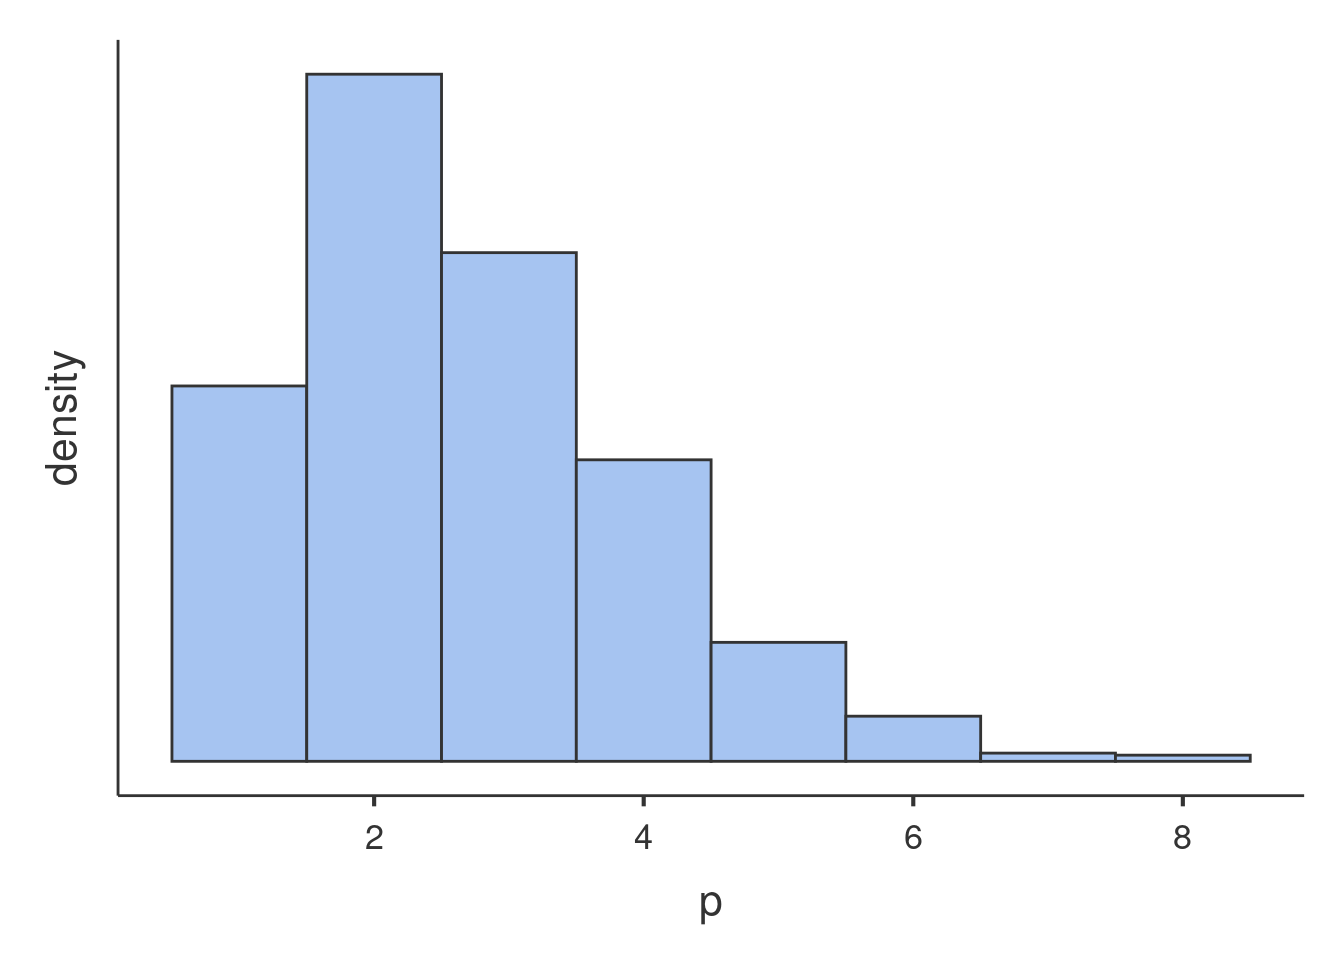
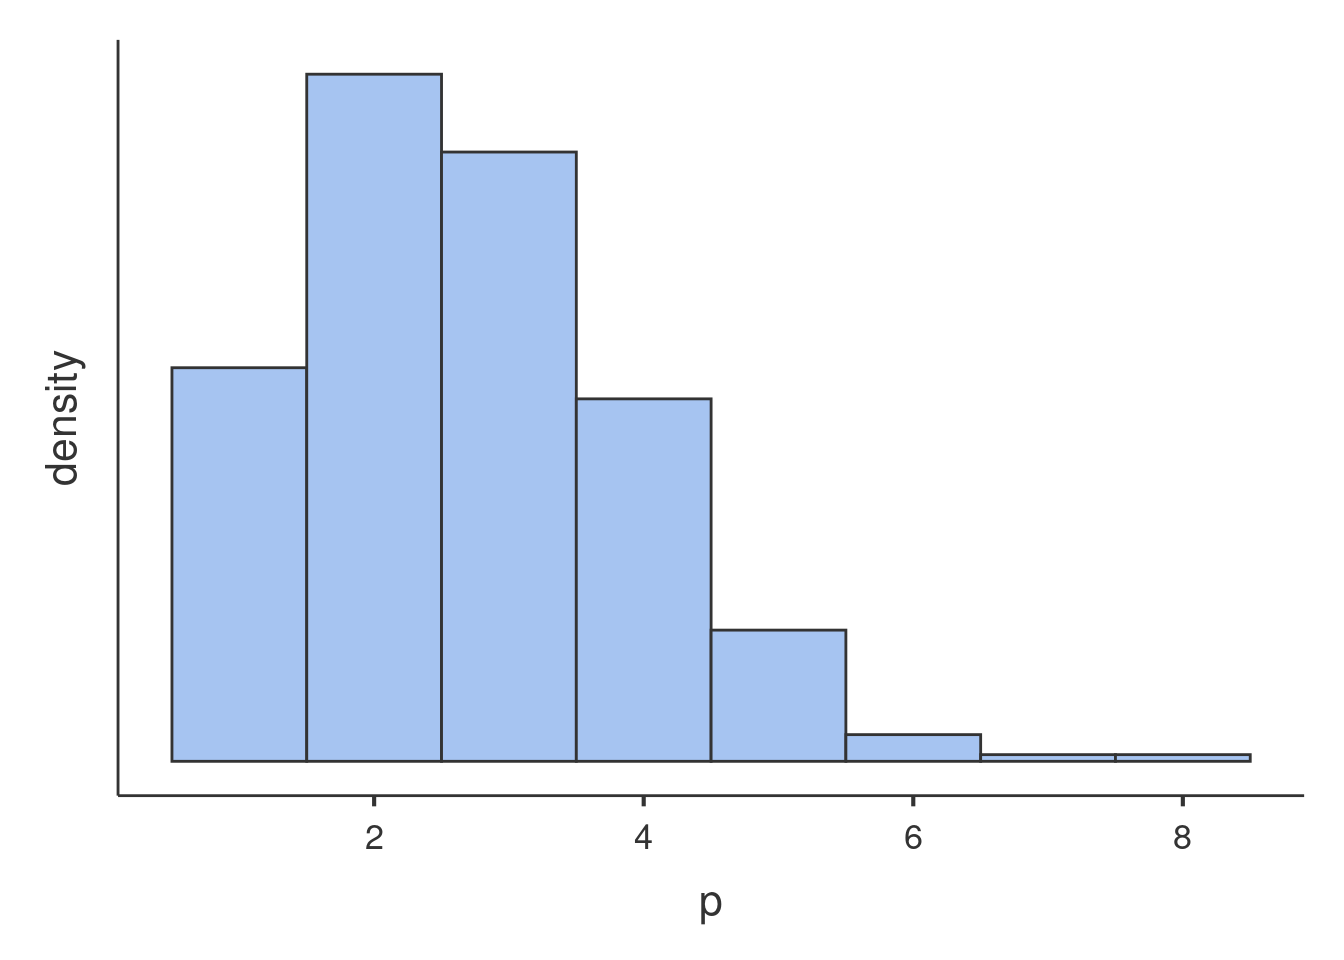
updates

diff --git a/docs/glmmixed_example2.html b/docs/glmmixed_example2.html
@@ -424,8 +424,8 @@ Generalized Linear Model with Poisson distribition may work. However, we
 can check wheather our distribution is in line with the features of the
 Poisson dist by checking its mean and variance. The Poisson distribution
 has variance equal to the mean, in fact the simulated distribution in
-the histogram has <span class="math inline">\(\bar{x}=1.659\)</span> and
-<span class="math inline">\(s^2=1.668\)</span>. The <code>art</code>
+the histogram has <span class="math inline">\(\bar{x}=1.681\)</span> and
+<span class="math inline">\(s^2=1.547\)</span>. The <code>art</code>
 variable distribution has <span
 class="math inline">\(\bar{x}=1.693\)</span> and <span
 class="math inline">\(s^2=3.71\)</span>, with a ratio variance/mean of
